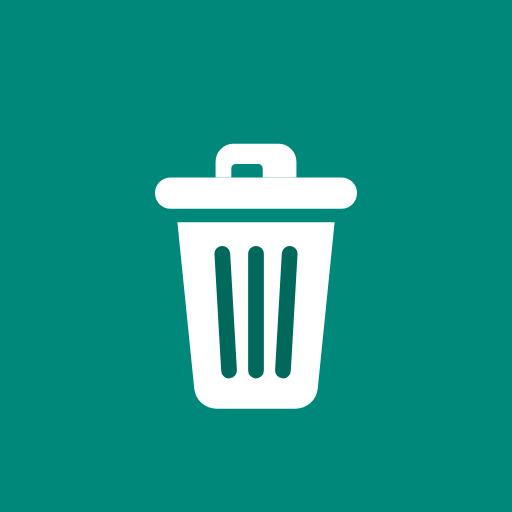
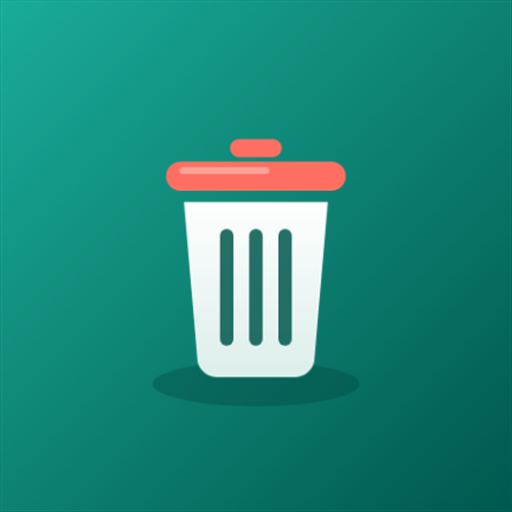
Rediseno indigo unificado, iconos/splash, menus y preparacion Google Play

diff --git a/Resources/Styles/Colors.xaml b/Resources/Styles/Colors.xaml
@@ -5,28 +5,28 @@
     <!-- Tokens semanticos (constitucion 24): por rol, sin prefijo de aplicacion. -->
 
     <!-- Marca -->
-    <Color x:Key="Primary">#00897B</Color>
-    <Color x:Key="PrimaryDark">#00695C</Color>
-    <Color x:Key="Accent">#FB8C00</Color>
-    <Color x:Key="Danger">#E74C3C</Color>
+    <Color x:Key="Primary">#3525CD</Color>
+    <Color x:Key="PrimaryDark">#2A1CB8</Color>
+    <Color x:Key="Accent">#4F46E5</Color>
+    <Color x:Key="Danger">#BA1A1A</Color>
     <Color x:Key="Success">#27AE60</Color>
 
     <!-- Texto blanco fijo sobre la barra/superficies de la marca (mismo color en ambos temas) -->
     <Color x:Key="OnPrimary">#FFFFFF</Color>
 
     <!-- Superficies -->
-    <Color x:Key="PageBackgroundLight">#F4F7F6</Color>
-    <Color x:Key="PageBackgroundDark">#12161B</Color>
+    <Color x:Key="PageBackgroundLight">#F8F9FA</Color>
+    <Color x:Key="PageBackgroundDark">#141318</Color>
     <Color x:Key="CardBackgroundLight">#FFFFFF</Color>
-    <Color x:Key="CardBackgroundDark">#1C2229</Color>
-    <Color x:Key="SeparatorLight">#E1E8E6</Color>
-    <Color x:Key="SeparatorDark">#2A323C</Color>
+    <Color x:Key="CardBackgroundDark">#201F27</Color>
+    <Color x:Key="SeparatorLight">#C7C4D8</Color>
+    <Color x:Key="SeparatorDark">#48454F</Color>
 
     <!-- Texto -->
-    <Color x:Key="TextPrimaryLight">#243230</Color>
-    <Color x:Key="TextPrimaryDark">#E8ECF1</Color>
-    <Color x:Key="TextSecondaryLight">#7F8C8D</Color>
-    <Color x:Key="TextSecondaryDark">#93A1B0</Color>
+    <Color x:Key="TextPrimaryLight">#191C1D</Color>
+    <Color x:Key="TextPrimaryDark">#E6E1E9</Color>
+    <Color x:Key="TextSecondaryLight">#464555</Color>
+    <Color x:Key="TextSecondaryDark">#C7C4D8</Color>
 
     <Color x:Key="White">#FFFFFF</Color>
     <Color x:Key="Black">#000000</Color>
@@ -34,8 +34,8 @@
     <!-- Superficies semanticas derivadas (sin literales hex sueltos en el markup, constitucion 24) -->
     <!-- Subtitulo sobre la barra teal de la marca -->
     <!-- Fondo del circulo que envuelve el icono de cada app en la lista -->
-    <Color x:Key="IconTileLight">#E7F1EF</Color>
-    <Color x:Key="IconTileDark">#252D36</Color>
+    <Color x:Key="IconTileLight">#EDEEEF</Color>
+    <Color x:Key="IconTileDark">#2A2833</Color>
     <!-- Recuadro de advertencia del aviso legal (rojo muy tenue) -->
     <Color x:Key="WarningSurfaceLight">#FDF2F2</Color>
     <Color x:Key="WarningSurfaceDark">#2B1E1E</Color>

diff --git a/AppShell.xaml b/AppShell.xaml
@@ -24,7 +24,6 @@
             <VerticalStackLayout VerticalOptions="End" Spacing="4">
                 <Image Source="app_logo.png" WidthRequest="52" HeightRequest="52" HorizontalOptions="Start" />
                 <Label Text="Uninstaller" FontSize="22" FontAttributes="Bold" TextColor="{StaticResource OnPrimary}" />
-                <Label x:Name="HeaderSubtitle" FontSize="12" TextColor="{StaticResource OnPrimary}" Opacity="0.9" />
             </VerticalStackLayout>
         </Grid>
     </Shell.FlyoutHeader>
@@ -53,6 +52,17 @@
             </VerticalStackLayout>
         </ScrollView>
     </Shell.FlyoutContent>
+
+    <!-- Pie del menu con la version -->
+    <Shell.FlyoutFooter>
+        <Grid Padding="20,12">
+            <Label Text="v2026.07.28.0"
+                   FontSize="12"
+                   TextColor="{AppThemeBinding Light={StaticResource TextSecondaryLight}, Dark={StaticResource TextSecondaryDark}}"
+                   VerticalOptions="Center"
+                   HorizontalOptions="Center" />
+        </Grid>
+    </Shell.FlyoutFooter>
 
     <!-- Estructura de navegacion (rutas). El menu visual lo pinta FlyoutContent. -->
     <FlyoutItem Title="Inicio" Icon="ic_home.png">

diff --git a/Pages/AboutPage.xaml b/Pages/AboutPage.xaml
@@ -52,8 +52,8 @@
                 </VerticalStackLayout>
             </Border>
 
-            <!-- Apoyo -->
-            <Border Style="{StaticResource Card}">
+            <!-- Apoyo (Ko-fi) — oculto a petición del autor en todas las apps. -->
+            <Border Style="{StaticResource Card}" IsVisible="False">
                 <VerticalStackLayout Padding="25,20" Spacing="12">
                     <Label x:Name="DonationTitle"
                            Style="{StaticResource CardTitle}"

diff --git a/Resources/Styles/Styles.xaml b/Resources/Styles/Styles.xaml
@@ -29,7 +29,7 @@
         <Setter Property="Padding" Value="0" />
         <Setter Property="StrokeShape">
             <Setter.Value>
-                <RoundRectangle CornerRadius="12" />
+                <RoundRectangle CornerRadius="16" />
             </Setter.Value>
         </Setter>
         <Setter Property="Shadow">

diff --git a/Pages/AboutPage.xaml.cs b/Pages/AboutPage.xaml.cs
@@ -1,4 +1,5 @@
 using Microsoft.Extensions.Logging;
+using SocShared;
 using Uninstaller.Helpers;
 using Uninstaller.Services;
 
@@ -106,12 +107,12 @@ public partial class AboutPage : ContentPage
         }
         catch (FeatureNotSupportedException)
         {
-            await DisplayAlert(_l["Error"], _l["ErrorEmailNotAvailable"], _l["Ok"]);
+            await ModernDialog.AlertAsync(this, _l["Error"], _l["ErrorEmailNotAvailable"], _l["Ok"]);
         }
         catch (Exception ex)
         {
             _logger.LogError(ex, "Could not open the email client");
-            await DisplayAlert(_l["Error"], $"{_l["ErrorEmail"]}: {ex.Message}", _l["Ok"]);
+            await ModernDialog.AlertAsync(this, _l["Error"], $"{_l["ErrorEmail"]}: {ex.Message}", _l["Ok"]);
         }
     }
 
@@ -123,7 +124,7 @@ public partial class AboutPage : ContentPage
             {
                 LaunchMode = BrowserLaunchMode.SystemPreferred,
                 TitleMode = BrowserTitleMode.Show,
-                PreferredToolbarColor = Color.FromArgb("#FB8C00"),
+                PreferredToolbarColor = Color.FromArgb("#4F46E5"),
                 PreferredControlColor = Colors.White
             });
         }
@@ -135,12 +136,12 @@ public partial class AboutPage : ContentPage
             try
             {
                 await Clipboard.Default.SetTextAsync(DonationUrl);
-                await DisplayAlert(_l["BrowserNotAvailable"], $"{_l["LinkCopied"]}:\n{DonationUrl}", _l["Ok"]);
+                await ModernDialog.AlertAsync(this, _l["BrowserNotAvailable"], $"{_l["LinkCopied"]}:\n{DonationUrl}", _l["Ok"]);
             }
             catch (Exception clipboardEx)
             {
                 _logger.LogError(clipboardEx, "The clipboard is not available either");
-                await DisplayAlert(_l["Error"], $"{_l["ErrorBrowser"]}: {DonationUrl}", _l["Ok"]);
+                await ModernDialog.AlertAsync(this, _l["Error"], $"{_l["ErrorBrowser"]}: {DonationUrl}", _l["Ok"]);
             }
         }
     }

diff --git a/Pages/MainPage.xaml.cs b/Pages/MainPage.xaml.cs
@@ -1,4 +1,5 @@
 using Microsoft.Extensions.Logging;
+using SocShared;
 using Uninstaller.Helpers;
 using Uninstaller.Models;
 using Uninstaller.Services;
@@ -85,7 +86,7 @@ public partial class MainPage : ContentPage
         catch (Exception ex)
         {
             _logger.LogError(ex, "Could not load the installed apps");
-            await DisplayAlert(_l["Error"], string.Format(_l.CurrentCulture, _l["ErrorLoad"], ex.Message), _l["Ok"]);
+            await ModernDialog.AlertAsync(this, _l["Error"], string.Format(_l.CurrentCulture, _l["ErrorLoad"], ex.Message), _l["Ok"]);
         }
         finally
         {
@@ -155,11 +156,12 @@ public partial class MainPage : ContentPage
         var selected = _apps.Where(a => a.IsSelected).ToList();
         if (selected.Count == 0)
         {
-            await DisplayAlert(_l["ConfirmUninstallTitle"], _l["NothingSelected"], _l["Ok"]);
+            await ModernDialog.AlertAsync(this, _l["ConfirmUninstallTitle"], _l["NothingSelected"], _l["Ok"]);
             return;
         }
 
-        var confirm = await DisplayAlert(
+        var confirm = await ModernDialog.AlertAsync(
+            this,
             _l["ConfirmUninstallTitle"],
             string.Format(_l.CurrentCulture, _l["ConfirmUninstallMany"], selected.Count),
             _l["Continue"], _l["Cancel"]);
@@ -179,7 +181,8 @@ public partial class MainPage : ContentPage
             catch (Exception ex)
             {
                 _logger.LogError(ex, "Could not uninstall {Package}", app.PackageName);
-                await DisplayAlert(
+                await ModernDialog.AlertAsync(
+                    this,
                     _l["Error"],
                     string.Format(_l.CurrentCulture, _l["ErrorUninstall"], app.Label, ex.Message),
                     _l["Ok"]);

diff --git a/Services/UpdateService.cs b/Services/UpdateService.cs
@@ -1,5 +1,6 @@
 using System.Text.Json;
 using System.Text.Json.Serialization;
+using SocShared;
 
 namespace Uninstaller.Services;
 
@@ -36,7 +37,8 @@ public class UpdateService
             if (CompareVersions(manifest.Version, current) <= 0)
                 return; // ya se esta en la ultima version (o mas nueva)
 
-            var wantsUpdate = await page.DisplayAlert(
+            var wantsUpdate = await ModernDialog.AlertAsync(
+                page,
                 _l["UpdateTitle"],
                 string.Format(_l.CurrentCulture, _l["UpdateBody"], manifest.Version, current),
                 _l["UpdateNow"], _l["UpdateLater"]);

diff --git a/App.xaml.cs b/App.xaml.cs
@@ -9,6 +9,10 @@ public partial class App : Application
 
     protected override Window CreateWindow(IActivationState? activationState)
     {
-        return new Window(new AppShell());
+        var window = new Window(new AppShell());
+#if DEBUG
+        SocShared.AuthorNotes.Attach(window);   // notas de autor: SOLO Debug, desactivado en Release/produccion
+#endif
+        return window;
     }
 }

diff --git a/Platforms/Android/MainActivity.cs b/Platforms/Android/MainActivity.cs
@@ -39,7 +39,7 @@ public class MainActivity : MauiAppCompatActivity
         if (content is null)
             return;
 
-        content.SetBackgroundColor(global::Android.Graphics.Color.ParseColor("#00695C"));
+        content.SetBackgroundColor(global::Android.Graphics.Color.ParseColor("#2A1CB8"));
 
         ViewCompat.SetOnApplyWindowInsetsListener(content, new SystemBarInsetsListener());
 

diff --git a/AppShell.xaml.cs b/AppShell.xaml.cs
@@ -18,7 +18,6 @@ public partial class AppShell : Shell
 
     private void ApplyTexts()
     {
-        HeaderSubtitle.Text = _l["AppDescription"];
         HomeLabel.Text = _l["MenuHome"];
         AboutLabel.Text = _l["About"];
 
